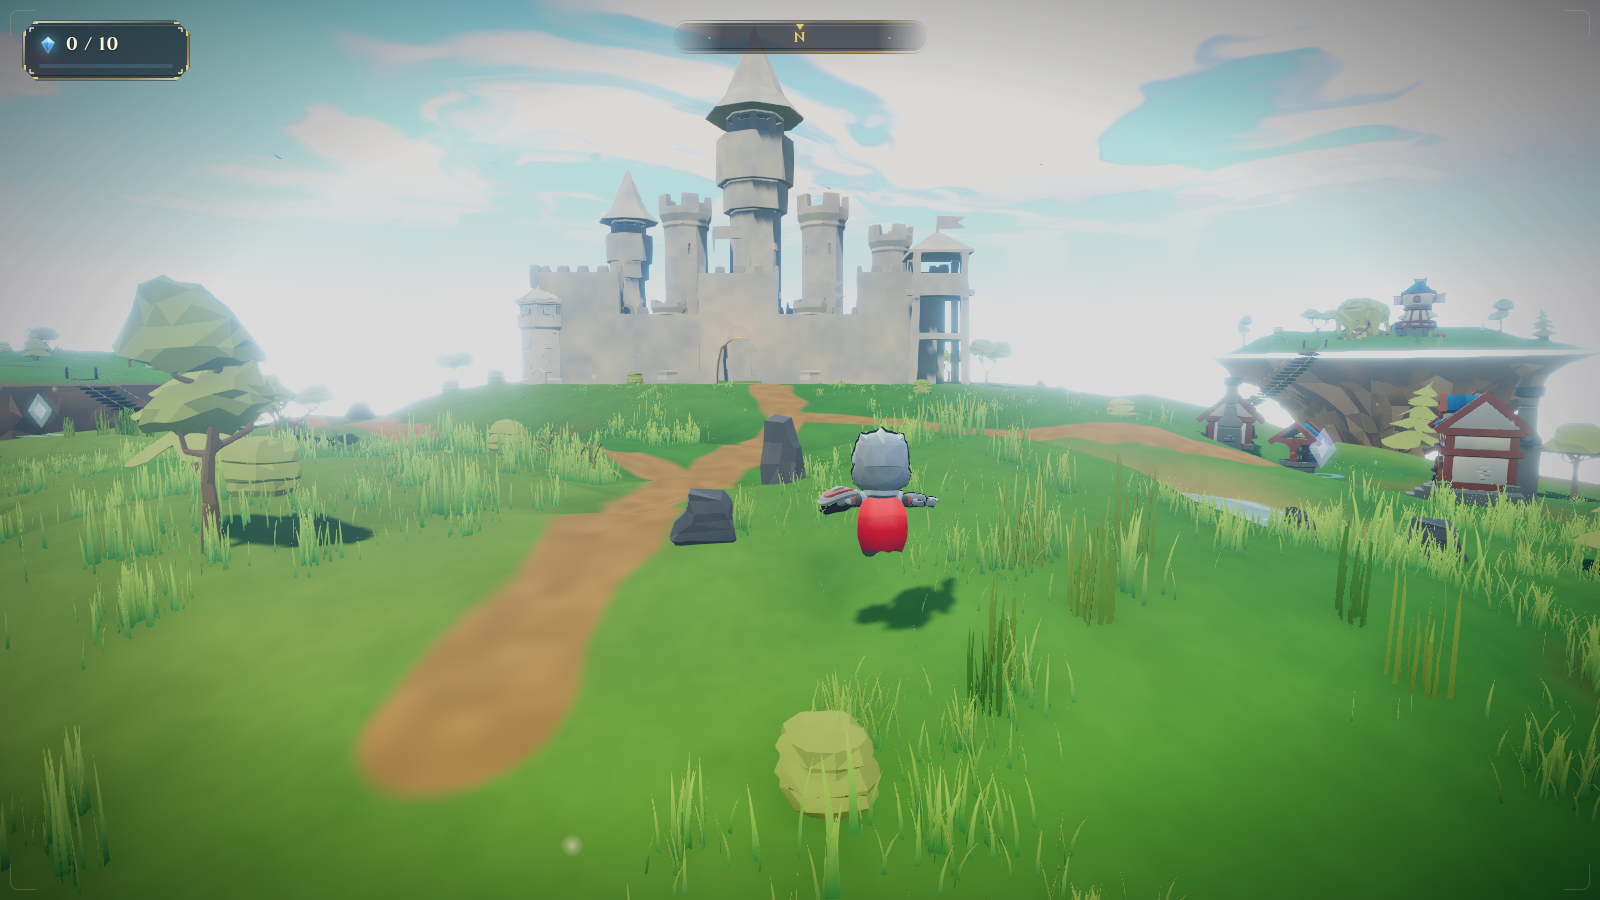
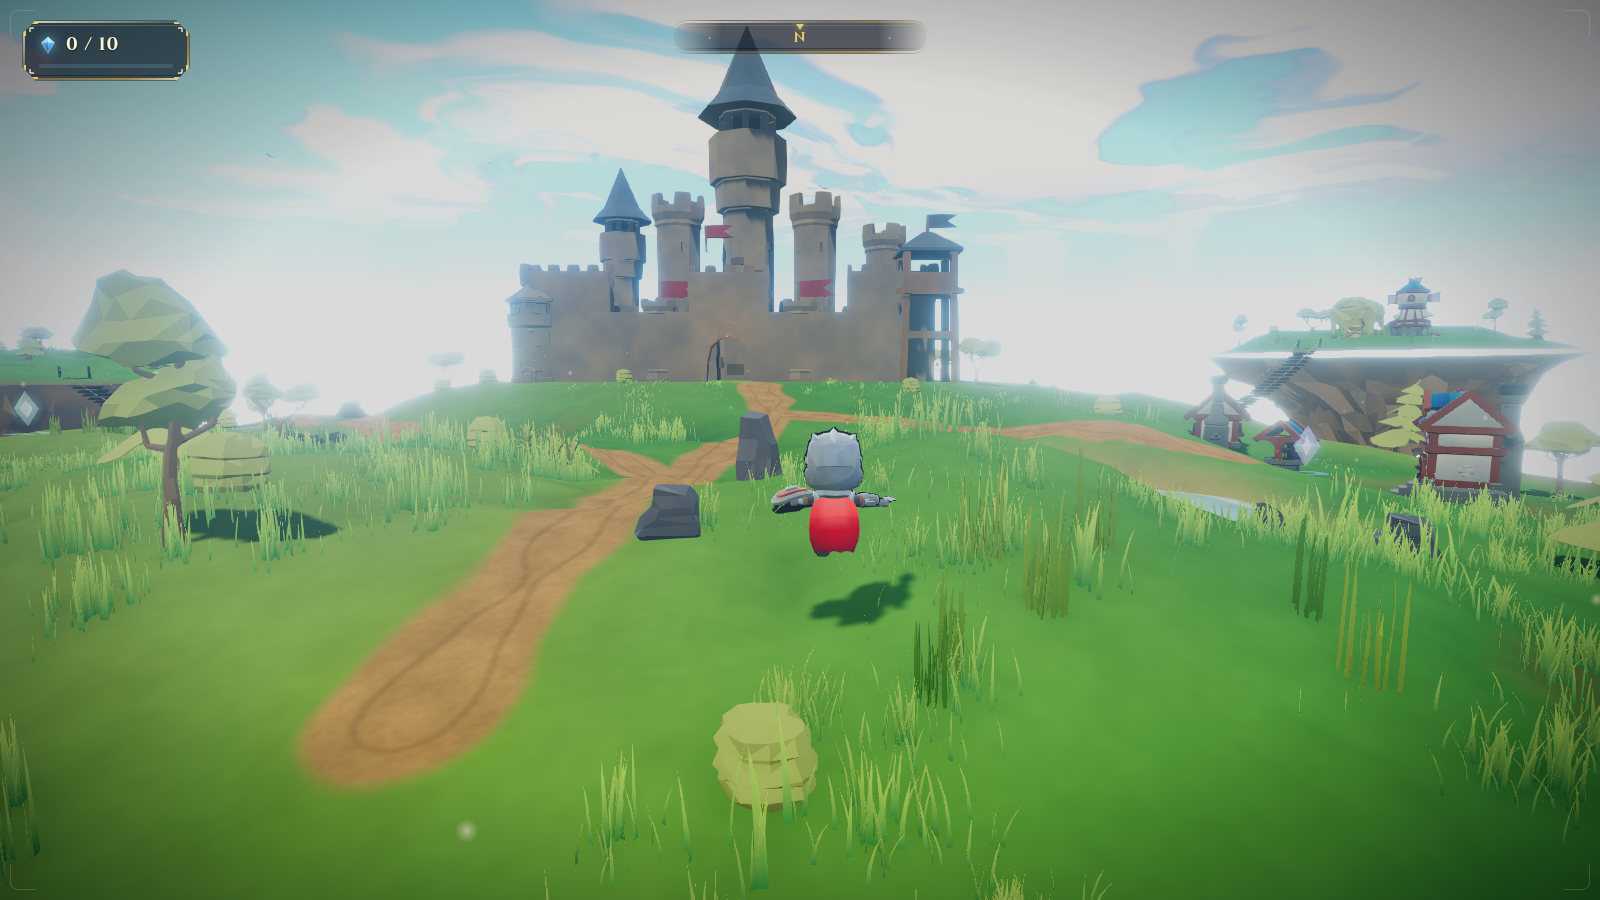
Value and atmosphere pass: authored castle palette, aerial fog, path material
The castle rendered near-white because the mirror's GLBs lost the pack's
palette texture — every material was flat 0.8 grey. The material names
survived, so the palette is now authored by name in the batching step:
warm face stone, darker trim, slate-blue roofs, timber, heraldic crimson
banners, iron. With values in place the castle reads as a mid-dark mass
against a bright sky instead of washing into it.

Atmosphere: fog moves from a bright white-out starting at 150m to a
sky-blue tint starting at 260m, so distance shifts toward blue (aerial
perspective) rather than white; the scattering sky's turbidity and mie
coefficient are roughly halved, which removes most of the white horizon
band that was flattening the frame.

The path is now a material instead of a flat strip: two-octave gravel
speckle, darker wheel ruts either side of the crown, and a sun-dried straw
verge where the grass gives out before bare earth.

23 specs, visual gate, ui gate, draw/tri budget all green.

Claude-Session: https://claude.ai/code/session_01GJ2VT9jp2coxhKAp6gJraM

diff --git a/src/world/castle_modular.js b/src/world/castle_modular.js
@@ -171,6 +171,24 @@ export function buildModularCastle(models, { x, z, groundY, groundAt = null }) {
   // colours, so their material colour is baked into a vertex-colour attribute
   // and the whole castle is merged into ONE mesh with a single painted
   // material. Banners stay separate because they animate.
+  // The mirror's GLBs lost the pack's palette texture — every material is flat
+  // 0.8 grey — but the material NAMES survive, so the palette is authored here
+  // by name. Values are chosen for the frame's value structure: the castle must
+  // read as a warm mid-dark mass against a bright sky, not wash into it.
+  const STONE_PALETTE = {
+    lightrock: new THREE.Color(0.360, 0.320, 0.270), // warm face stone
+    darkrock: new THREE.Color(0.200, 0.185, 0.170),  // trim / shadow courses
+    celing: new THREE.Color(0.115, 0.175, 0.265),    // slate roofs (game's blue)
+    lightwood: new THREE.Color(0.330, 0.215, 0.115), // timber
+    banner: new THREE.Color(0.430, 0.075, 0.085),    // heraldic crimson
+    black: new THREE.Color(0.055, 0.050, 0.048),     // iron
+  };
+  const stoneColorFor = (matName) => {
+    const key = String(matName || '').toLowerCase().replace(/[^a-z]/g, '');
+    for (const k of Object.keys(STONE_PALETTE)) if (key.startsWith(k)) return STONE_PALETTE[k];
+    return STONE_PALETTE.lightrock;
+  };
+
   const bannerSet = new Set(banners);
   const geos = [];
   const leftovers = [];
@@ -186,7 +204,7 @@ export function buildModularCastle(models, { x, z, groundY, groundAt = null }) {
     }
     const geo = g.toNonIndexed();
     const n = geo.attributes.position.count;
-    const col = (o.material && o.material.color) || new THREE.Color(0xffffff);
+    const col = stoneColorFor(o.material && o.material.name);
     const colors = new Float32Array(n * 3);
     for (let i = 0; i < n; i++) {
       colors[i * 3] = col.r;
@@ -209,8 +227,14 @@ export function buildModularCastle(models, { x, z, groundY, groundAt = null }) {
     mesh.receiveShadow = true;
     batched.add(mesh);
   }
-  // re-attach the animated banners on top of the batch
+  // re-attach the animated banners on top of the batch, in the same palette
   for (const b of banners) {
+    b.traverse((o) => {
+      if (o.isMesh && o.material) {
+        o.material = o.material.clone();
+        o.material.color = stoneColorFor(o.material.name).clone();
+      }
+    });
     painterlyfy(b, { mottle: 0.12, rim: 0.6, mottleScale: 2.0 });
     batched.add(b);
   }

diff --git a/src/world/sky.js b/src/world/sky.js
@@ -10,8 +10,8 @@ import { RNG, clamp, lerp, smoothstep } from '../core/rng.js';
 const DAY_LENGTH = 240; // seconds per full cycle
 
 const PAL = {
-  day: { top: 0x4287d6, horizon: 0xbfe2f2, fog: 0xb7d8e9, sun: 0xfff3d6, hemiSky: 0xcae0ff, hemiGround: 0x8b9c63 },
-  sunset: { top: 0x35418c, horizon: 0xff9d5c, fog: 0xdca882, sun: 0xffb46b, hemiSky: 0xd99c7c, hemiGround: 0x6a5a4c },
+  day: { top: 0x4287d6, horizon: 0xbfe2f2, fog: 0x93b8d8, sun: 0xfff3d6, hemiSky: 0xcae0ff, hemiGround: 0x8b9c63 },
+  sunset: { top: 0x35418c, horizon: 0xff9d5c, fog: 0xc39067, sun: 0xffb46b, hemiSky: 0xd99c7c, hemiGround: 0x6a5a4c },
   night: { top: 0x0a1028, horizon: 0x233158, fog: 0x1a2240, sun: 0x9db4ff, hemiSky: 0x33415f, hemiGround: 0x232630 },
 };
 
@@ -34,9 +34,9 @@ export class Sky {
       this.dome.scale.setScalar(1800);
       this.dome.frustumCulled = false;
       this.atmo = this.dome.material.uniforms;
-      this.atmo.turbidity.value = 6;
+      this.atmo.turbidity.value = 3.4; // less suspended haze: the horizon was a white band that flattened all depth
       this.atmo.rayleigh.value = 1.6;
-      this.atmo.mieCoefficient.value = 0.004;
+      this.atmo.mieCoefficient.value = 0.0022;
       this.atmo.mieDirectionalG.value = 0.85;
       scene.add(this.dome);
     }
@@ -124,7 +124,7 @@ export class Sky {
     this.moon.scale.setScalar(110);
     scene.add(this.moon);
 
-    scene.fog = new THREE.Fog(PAL.day.fog, 150, 720);
+    scene.fog = new THREE.Fog(PAL.day.fog, 260, 980); // start past the far islands' midground so distance tints blue instead of whiting out
 
     this._colA = new THREE.Color();
     this.nightFactor = 0;

diff --git a/src/world/world.js b/src/world/world.js
@@ -155,9 +155,18 @@ export class World {
             pd = min(pd, distSeg(p, uPathSegs[i].xy, uPathSegs[i].zw));
           }
           pd += (vnoise(p * 0.55) - 0.5) * 0.9;
+          // the track is a material, not a flat strip: base dirt with fine
+          // gravel speckle, darker wheel ruts either side of the crown, and
+          // sun-dried verges where the grass gives out before bare earth
           vec3 pathCol = uPath * (0.88 + vnoise(p * 1.7) * 0.24);
+          float gravel = vnoise(p * 6.3) * 0.55 + vnoise(p * 14.0) * 0.45;
+          pathCol *= 0.90 + gravel * 0.20;
+          float rut = 1.0 - smoothstep(0.0, 0.16, abs(pd - 0.5));
+          pathCol = mix(pathCol, pathCol * 0.78, rut * 0.8);
           float onPath = 1.0 - smoothstep(1.05, 1.55, pd);
-          float wornEdge = (1.0 - smoothstep(1.55, 2.6, pd)) * 0.22;
+          float verge = (1.0 - smoothstep(1.4, 2.7, pd)) * (1.0 - onPath);
+          base = mix(base, base * vec3(1.08, 1.00, 0.66), verge * 0.5); // dry straw fringe
+          float wornEdge = (1.0 - smoothstep(1.55, 2.6, pd)) * 0.18;
           base = mix(base, base * 0.9, wornEdge);        // trampled fringe
           base = mix(base, pathCol, onPath * (1.0 - rockMix));
           csm_DiffuseColor.rgb = base;

diff --git a/art-review/change-report.md b/art-review/change-report.md
@@ -118,23 +118,32 @@ variant counts cut, small flora shadow-casting disabled (70 → 62).
 - **HUD**: crystal count set in the display face, gilded.
 - **README** rewritten to match what the project actually is now.
 
+## Pass 3 (value & atmosphere)
+
+- **Castle palette authored**: the mirror's GLBs had lost the pack's palette
+  texture (every material flat 0.8 grey — why the castle rendered near-white),
+  but material names survived. The palette is now authored by name: warm face
+  stone, darker trim courses, slate-blue roofs, timber, heraldic crimson
+  banners, iron. The castle finally reads as a mid-dark mass against the sky.
+- **Aerial perspective**: fog retuned from bright white-out (near 150) to a
+  sky-blue tint starting at 260 — distance now goes blue, not white — and the
+  scattering sky's turbidity/mie haze halved, which removes most of the white
+  horizon band.
+- **Path as material**: fine gravel speckle (two octaves), darker wheel ruts
+  either side of the crown, and a sun-dried straw verge where grass gives out
+  before the bare track.
+
 ## Remaining visible weaknesses
 
 Honest list, from the `after.png` capture:
 
-1. **The castle is too pale.** The Quaternius stone reads near-white against the
-   hazy horizon, so it lacks weight and its silhouette washes into the sky.
-   Needs a darker, warmer stone tint and stronger value separation.
-2. **The horizon is a white haze band.** Fog is too bright and starts too close,
-   flattening all depth. There is no real aerial-perspective gradation between
-   midground and background.
-3. **The dirt path is still a flat painted strip.** No worn edges, no gravel, no
-   verge where grass thins into bare earth.
-4. **The terrain still reads as one continuous green.** Smooth now, but no
-   distinct biome zones, no rock outcrops breaking the meadow.
-5. **The character silhouette is unchanged** — still the KayKit knight, which is
-   fine but not distinctive, and it was not part of this iteration's scope.
-6. Composition has no deliberate foreground framing element.
+1. **The terrain still reads as one continuous green.** No distinct biome
+   zones or rock outcrops breaking the meadow.
+2. **Horizon glow behind the castle** is reduced but still bright at low sun
+   angles; a height-graded fog would finish the job.
+3. Composition has no deliberate foreground framing element.
+4. The satellite-island buildings (KayKit hexagon pack) are stylistically
+   louder than the new castle and could be re-dressed.
 
 ## Next three highest-impact improvements
 
